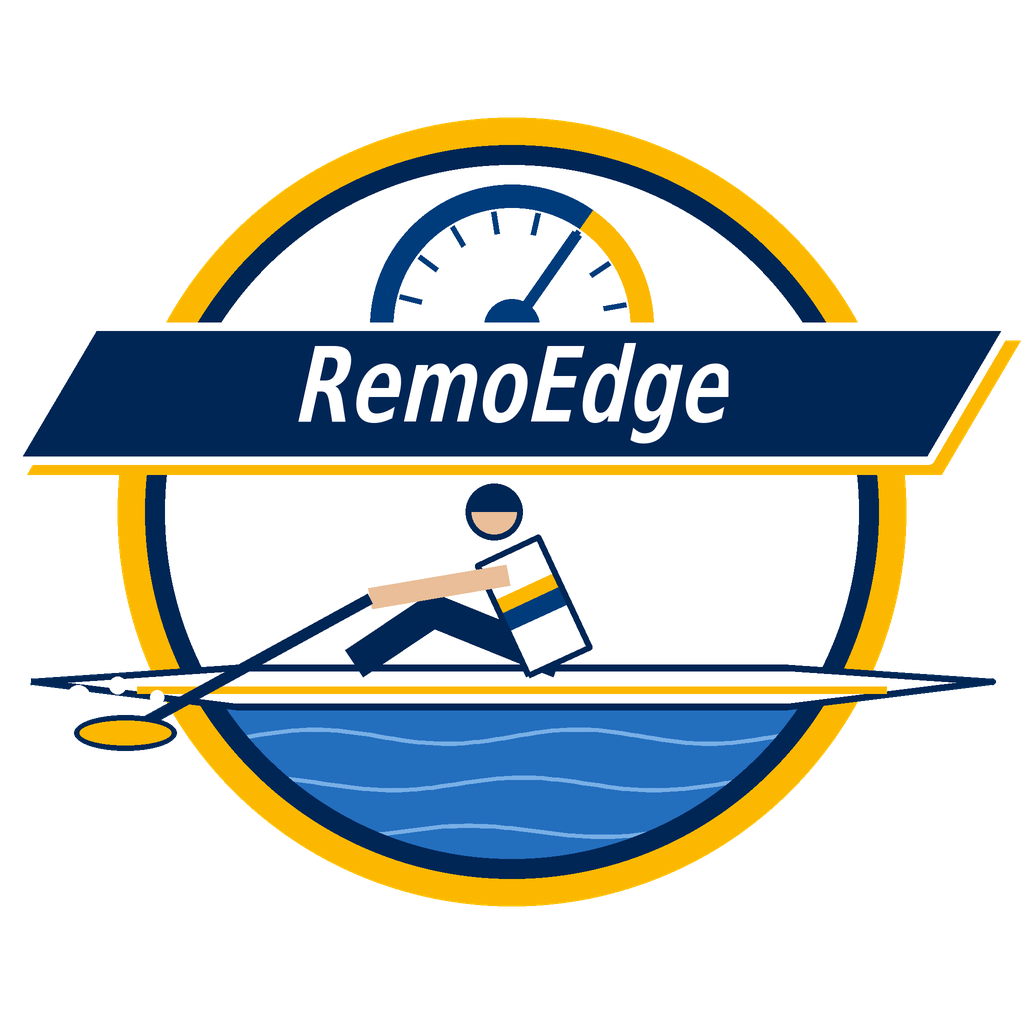
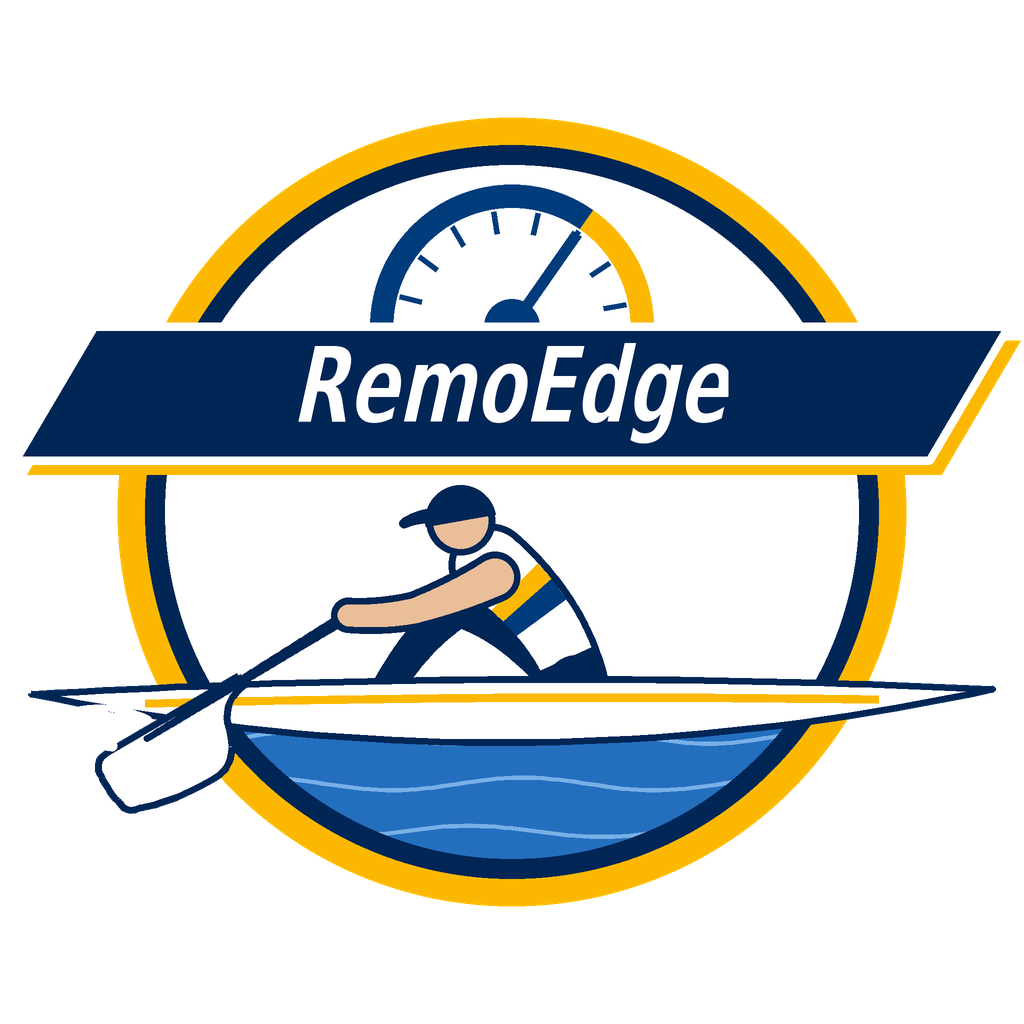
Artwork: redrawn rower, hatchet blade, navy cap
The rower is painted as tapered brush strokes instead of boxes: seated inside the shell at the catch, broad shoulders, navy shorts, navy cap with a visor. The oar has a white hatchet blade with the proportions of a sculling blade (about twice as long as deep, shaft along the top edge, narrower at the tip). Home screens, launcher icons and the README badge are regenerated by tools/gen_artwork.py.

Changed region(s): [[0.0312, 0.4688, 0.9688, 0.8125]]

diff --git a/tools/gen_artwork.py b/tools/gen_artwork.py
@@ -104,52 +104,144 @@ def draw_badge(im, cx, cy, R, wordmark=True, simple=False):
     im.paste(layer, (0, 0), Image.composite(layer.getchannel("A"), Image.new("L", (W, H), 0), mask))
     dr = ImageDraw.Draw(im)
 
-    # --- boat (over the ring), rower, one oar
-    hull_y = 0.44
+    # --- boat, rower and oar, painted as brush strokes: circles stamped along
+    # curves, so every limb is rounded and tapered
+    def bez(p0, p1, p2, t):
+        u = 1 - t
+        return (u * u * p0[0] + 2 * u * t * p1[0] + t * t * p2[0],
+                u * u * p0[1] + 2 * u * t * p1[1] + t * t * p2[1])
+
+    def brush(p0, p1, p2, w0, w1, fill, t0=0.0, t1=1.0, grow=0.0):
+        steps = 90
+        for s in range(steps + 1):
+            t = t0 + (t1 - t0) * s / steps
+            x, y = P(*bez(p0, p1, p2, t))
+            r = (w0 + (w1 - w0) * t + grow) * R
+            dr.ellipse([x - r, y - r, x + r, y + r], fill=fill)
+
+    def outlined(p0, p1, p2, w0, w1, fill):
+        brush(p0, p1, p2, w0, w1, NAVY_DK, grow=ol)
+        brush(p0, p1, p2, w0, w1, fill)
+
+    ol = 0.017 * k                      # outline thickness, in units of R
+    fat = 1.3 if simple else 1.0        # heavier figure at icon size
+
+    # joints of the figure, at the catch: seated low in the boat, body swung
+    # forward from the hips, arms long, knees up
+    hip = (0.17, 0.465)
+    back = (0.12, 0.275)                # control point: the curve of the back
+    sh = (-0.055, 0.135)
+    knee = (-0.13, 0.238)
+    foot = (-0.33, 0.470)
+    elbow = (-0.245, 0.250)
+    hand = (-0.415, 0.262)
+
+    # legs: thighs rise to the knees, shins drop to the stretcher
+    brush(hip, (0.03, 0.285), knee, 0.066 * fat, 0.054 * fat, NAVY_DK)
+    brush(knee, (-0.24, 0.310), foot, 0.050 * fat, 0.038 * fat, NAVY_DK)
+
+    # neck first: the torso, drawn next, covers its base
+    hc = (sh[0] - 0.075, sh[1] - 0.112)
+    hr = 0.070 * fat
+    outlined((sh[0] - 0.015, sh[1] - 0.015), (sh[0] - 0.045, sh[1] - 0.065), hc, 0.031 * fat, 0.031 * fat, SKIN)
+
+    # torso in the club kit: narrow at the waist, broad at the shoulders,
+    # white with a navy and a gold band across the chest
+    tw0, tw1 = 0.064 * fat, 0.088 * fat
+    outlined(hip, back, sh, tw0, tw1, WHITE)
+
+    def band(ta, tb, fill, extra=0.0):
+        pts = []
+        for t, side in ((ta, 1), (tb, 1), (tb, -1), (ta, -1)):
+            c = bez(hip, back, sh, t)
+            d = bez(hip, back, sh, min(1.0, t + 0.02))
+            e = bez(hip, back, sh, max(0.0, t - 0.02))
+            tx, ty = d[0] - e[0], d[1] - e[1]
+            ln = math.hypot(tx, ty)
+            w = tw0 + (tw1 - tw0) * t + extra
+            pts.append(P(c[0] - ty / ln * w * side, c[1] + tx / ln * w * side))
+        dr.polygon(pts, fill=fill)
+
+    band(0.56, 0.70, NAVY)
+    band(0.70, 0.81, GOLD)
+    # navy shorts with a straight waistline: hips and thighs read as one shape
+    band(0.0, 0.25, NAVY_DK, ol)
+    brush(hip, back, sh, tw0, tw1, NAVY_DK, t0=0.0, t1=0.05, grow=ol)
+
+    # head in front of the torso, then the navy cap: dome tilted forward and a visor
+    hx_, hy_ = P(*hc)
+    r = (hr + ol) * R
+    dr.ellipse([hx_ - r, hy_ - r, hx_ + r, hy_ + r], fill=NAVY_DK)
+    r = hr * R
+    dr.ellipse([hx_ - r, hy_ - r, hx_ + r, hy_ + r], fill=SKIN)
+    x, y = hx_, hy_
+    cr = (hr + ol * 1.2) * R
+    dr.pieslice([x - cr, y - cr, x + cr, y + cr], 170, 350, fill=NAVY_DK)
+    brush((hc[0] - hr * 0.80, hc[1] - hr * 0.18), (hc[0] - hr * 1.5, hc[1] - hr * 0.22),
+          (hc[0] - hr * 2.05, hc[1] + hr * 0.08), 0.020 * fat, 0.012 * fat, NAVY_DK)
+
+    # hull, drawn over the legs and hips: the rower sits inside the shell
     hx = 0.98 if simple else 1.22
-    hull = [P(-hx, hull_y - 0.01), P(-0.7, hull_y - 0.045), P(0.7, hull_y - 0.045), P(hx, hull_y - 0.01),
-            P(0.7, hull_y + 0.055), P(-0.7, hull_y + 0.055)]
+    top = [bez((-hx, 0.462), (0.0, 0.392), (hx, 0.450), i / 40.0) for i in range(41)]
+    bot = [bez((hx, 0.450), (0.0, 0.715), (-hx, 0.462), i / 40.0) for i in range(41)]
+    hull = [P(*p) for p in top + bot]
     dr.polygon(hull, fill=WHITE)
     dr.line(hull + [hull[0]], fill=NAVY_DK, width=max(2, int(0.018 * R * k)), joint="curve")
     if not simple:
-        dr.line([P(-0.95, hull_y + 0.012), P(0.95, hull_y + 0.012)], fill=GOLD, width=max(2, int(0.02 * R)))
+        stripe = [P(*bez((-0.93, 0.486), (0.0, 0.462), (0.93, 0.476), i / 40.0)) for i in range(41)]
+        dr.line(stripe, fill=GOLD, width=max(2, int(0.022 * R)), joint="curve")
 
-    hip, sh = (0.12, 0.38), (-0.01, 0.10)
-    knee, foot = (-0.20, 0.25), (-0.40, 0.385)
-    hand = (-0.36, 0.22)
-    dr.line([P(*hip), P(*knee), P(*foot)], fill=NAVY_DK, width=int(0.085 * R * (1.25 if simple else 1)),
-            joint="curve")
-    tw = 0.085 * (1.25 if simple else 1)
-    dx, dy = sh[0] - hip[0], sh[1] - hip[1]
-    ln = math.hypot(dx, dy)
-    nx, ny = -dy / ln * tw, dx / ln * tw
-
-    def tor(t0, t1):
-        a = (hip[0] + dx * t0, hip[1] + dy * t0)
-        c = (hip[0] + dx * t1, hip[1] + dy * t1)
-        return [P(a[0] - nx, a[1] - ny), P(a[0] + nx, a[1] + ny), P(c[0] + nx, c[1] + ny), P(c[0] - nx, c[1] - ny)]
-
-    # torso in the club kit: white with a navy and a gold band
-    dr.polygon(tor(0.0, 1.0), fill=WHITE)
-    dr.polygon(tor(0.40, 0.56), fill=NAVY)
-    dr.polygon(tor(0.56, 0.68), fill=GOLD)
-    body = tor(0.0, 1.0)
-    dr.line(body + [body[0]], fill=NAVY_DK, width=max(2, int(0.016 * R * k)), joint="curve")
-    hc = P(sh[0] - 0.035, sh[1] - 0.10)
-    hr = 0.072 * R * (1.2 if simple else 1)
-    dr.ellipse([hc[0] - hr, hc[1] - hr, hc[0] + hr, hc[1] + hr], fill=SKIN, outline=NAVY_DK,
-               width=max(2, int(0.016 * R * k)))
-    dr.pieslice([hc[0] - hr, hc[1] - hr, hc[0] + hr, hc[1] + hr], 180, 360, fill=NAVY_DK)
-    dr.line([P(sh[0], sh[1] + 0.06), P(*hand)], fill=SKIN, width=int(0.055 * R * (1.3 if simple else 1)))
+    # oar: straight shaft over the gunwale to a hatchet blade. Proportions of
+    # a sculling hatchet: about twice as long as deep, shaft joining at the
+    # top corner and running along the top edge, deepest a third of the way
+    # out, narrower at the tip, rounded corners.
     bx = -0.80 if simple else -0.98
-    blade = P(bx, 0.56)
-    dr.line([P(*hand), blade], fill=NAVY_DK, width=max(3, int(0.03 * R * k)))
-    dr.ellipse([blade[0] - 0.13 * R, blade[1] - 0.045 * R, blade[0] + 0.13 * R, blade[1] + 0.045 * R],
-               fill=GOLD, outline=NAVY_DK, width=max(2, int(0.014 * R * k)))
+    neck = (bx + 0.25, 0.455)
+    ux, uy = neck[0] - hand[0], neck[1] - hand[1]
+    ul = math.hypot(ux, uy)
+    ux, uy = ux / ul, uy / ul           # along the shaft, towards the tip
+    vx, vy = -uy, ux                    # across the shaft, towards the water
+    if vy < 0:
+        vx, vy = -vx, -vy
+    bl = 0.37 * (1.1 if simple else 1.0)        # blade length
+    bh = 0.175 * (1.1 if simple else 1.0)       # depth at the broadest point
+
+    def Bu(u, v):
+        return (neck[0] + ux * u + vx * v, neck[1] + uy * u + vy * v)
+
+    def seg(p0, p1, p2, n=10):
+        return [P(*Bu(*bez(p0, p1, p2, i / float(n)))) for i in range(n + 1)]
+
+    tipd = 0.76 * bh                    # depth at the tip
+    blade = [P(*Bu(-0.05, -0.014)), P(*Bu(bl - 0.035, -0.022))]
+    blade += seg((bl - 0.035, -0.022), (bl + 0.006, -0.022), (bl + 0.008, 0.016))      # top corner
+    blade += seg((bl + 0.008, 0.016), (bl + 0.014, tipd * 0.5), (bl + 0.004, tipd - 0.03))  # tip
+    blade += seg((bl + 0.004, tipd - 0.03), (bl + 0.002, tipd + 0.004), (bl - 0.035, tipd + 0.008))  # lower corner
+    blade += seg((bl - 0.035, tipd + 0.008), (bl * 0.68, bh * 0.99), (bl * 0.36, bh))  # lower edge
+    blade += seg((bl * 0.36, bh), (bl * 0.17, bh * 1.0), (bl * 0.10, bh * 0.48))       # heel
+    blade += seg((bl * 0.10, bh * 0.48), (bl * 0.05, bh * 0.12), (-0.05, 0.014))       # sweep into the neck
+    dr.polygon(blade, fill=WHITE)
+    dr.line(blade + [blade[0]], fill=NAVY_DK, width=max(2, int(ol * R * 1.1)), joint="curve")
+    spine = Bu(bl * 0.62, 0.0)
+    brush(hand, ((hand[0] + spine[0]) / 2, (hand[1] + spine[1]) / 2), spine, 0.016 * fat, 0.008 * fat, NAVY_DK)
+
+    # arm in front of torso and oar: a rounded shoulder tapering to the hand,
+    # drawn as one shape (all outlines, then all fills) so the elbow shows no
+    # inner contour
+    arm_a = ((sh[0] + 0.012, sh[1] + 0.030), (-0.13, 0.212), elbow, 0.047 * fat, 0.031 * fat)
+    arm_b = (elbow, (-0.33, 0.268), hand, 0.031 * fat, 0.027 * fat)
+    for part in (arm_a, arm_b):
+        brush(part[0], part[1], part[2], part[3], part[4], NAVY_DK, grow=ol)
+    for part in (arm_a, arm_b):
+        brush(part[0], part[1], part[2], part[3], part[4], SKIN)
+
     if not simple:
-        for sx, sy, sr in ((-1.10, 0.47, 0.030), (-1.00, 0.44, 0.022), (-0.90, 0.47, 0.018)):
-            p = P(sx, sy)
-            dr.ellipse([p[0] - sr * R, p[1] - sr * R, p[0] + sr * R, p[1] + sr * R], fill=WHITE)
+        # spray thrown up by the blade
+        brush(Bu(bl * 0.85, -0.03), Bu(bl + 0.07, -0.13), Bu(bl + 0.17, -0.08), 0.013, 0.003, WHITE)
+        brush(Bu(bl * 0.55, -0.04), Bu(bl * 0.75, -0.15), Bu(bl + 0.02, -0.17), 0.011, 0.003, WHITE)
+        for u, v, sr in ((bl + 0.21, -0.03, 0.014), (bl + 0.08, -0.20, 0.010), (bl + 0.15, 0.04, 0.008)):
+            px_, py_ = P(*Bu(u, v))
+            dr.ellipse([px_ - sr * R, py_ - sr * R, px_ + sr * R, py_ + sr * R], fill=WHITE)
 
     # --- wordmark banner across the badge
     by0, by1 = cy - 0.47 * R, cy - 0.13 * R
